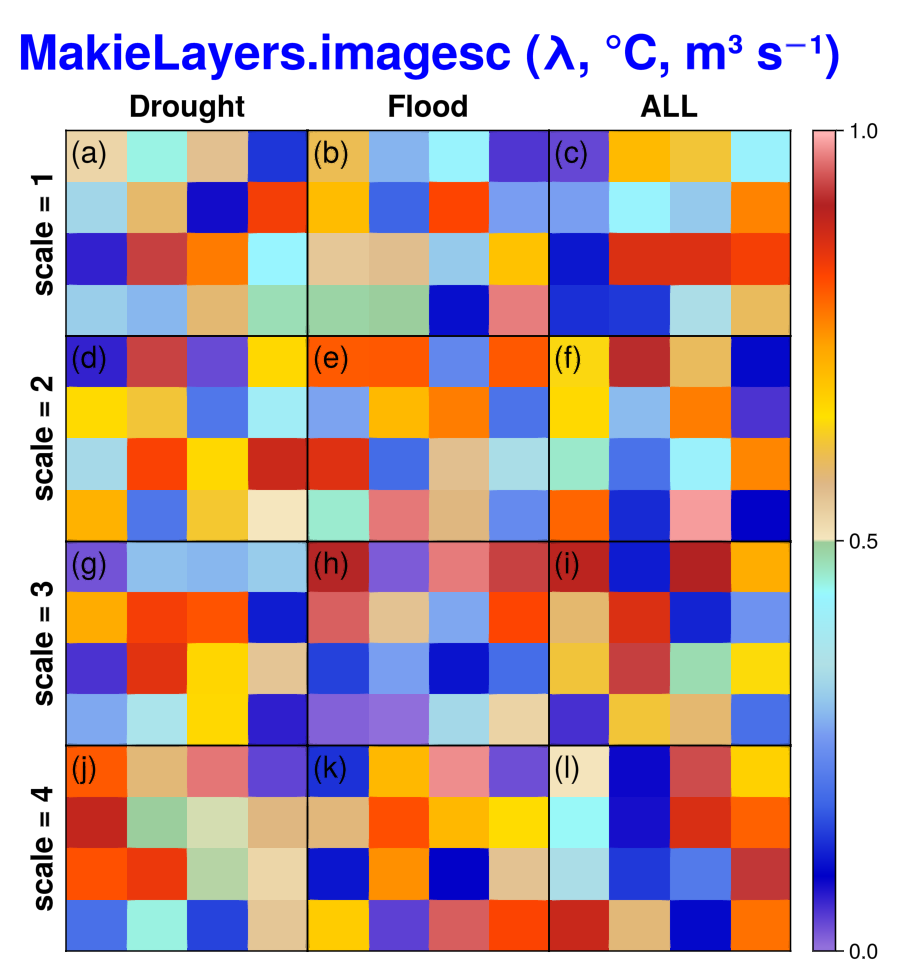
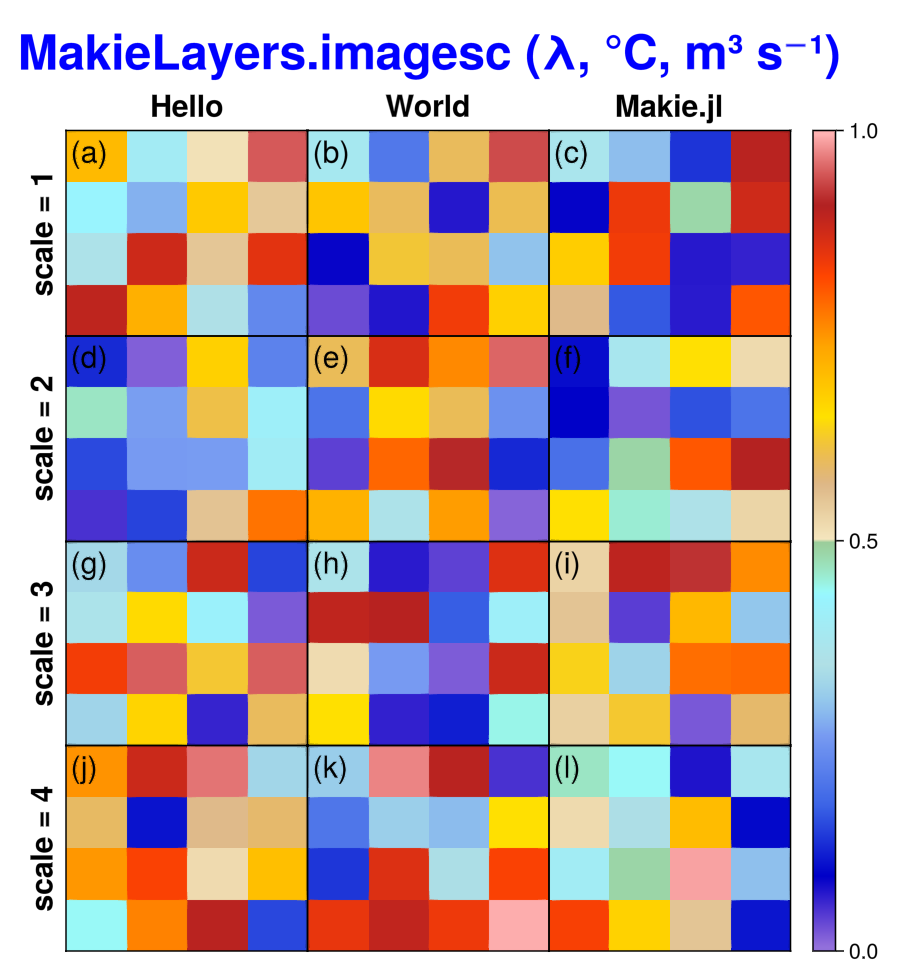
update figure

diff --git a/README.md b/README.md
@@ -28,6 +28,7 @@ using GLMakie
 using MakieLayers
 using Ipaper
 
+set_seed(2)
 label_tag(xs) = map(x -> "($x)", xs)
 
 x = 2:11
@@ -42,13 +43,13 @@ axs, plts = imagesc!(fig, rand(4, 4, 12), layout=(4, 3), byrow=true,
 flags = letters.(1:16) |> label_tag
 add_texts!(axs, flags, fontsize=20, 0.02, 0.98, align=(0, 1))
 
-labels = ["Drought", "Flood", "ALL"]
+labels = ["Hello", "World", "Makie.jl"]
 add_row_labels!(fig, labels, fontsize=20, gap=5)
 
 labels = ["scale = 1", "scale = 2", "scale = 3", "scale = 4"]
 add_col_labels!(fig, labels, fontsize=20, gap=5)
 
-# add a title for this figure
+# Title
 Label(fig[-1, :], "MakieLayers.imagesc (λ, °C, m³ s⁻¹)", font=:bold, fontsize=32, color=:blue)
 rowgap!(fig.layout, 1, 5)
 fig
